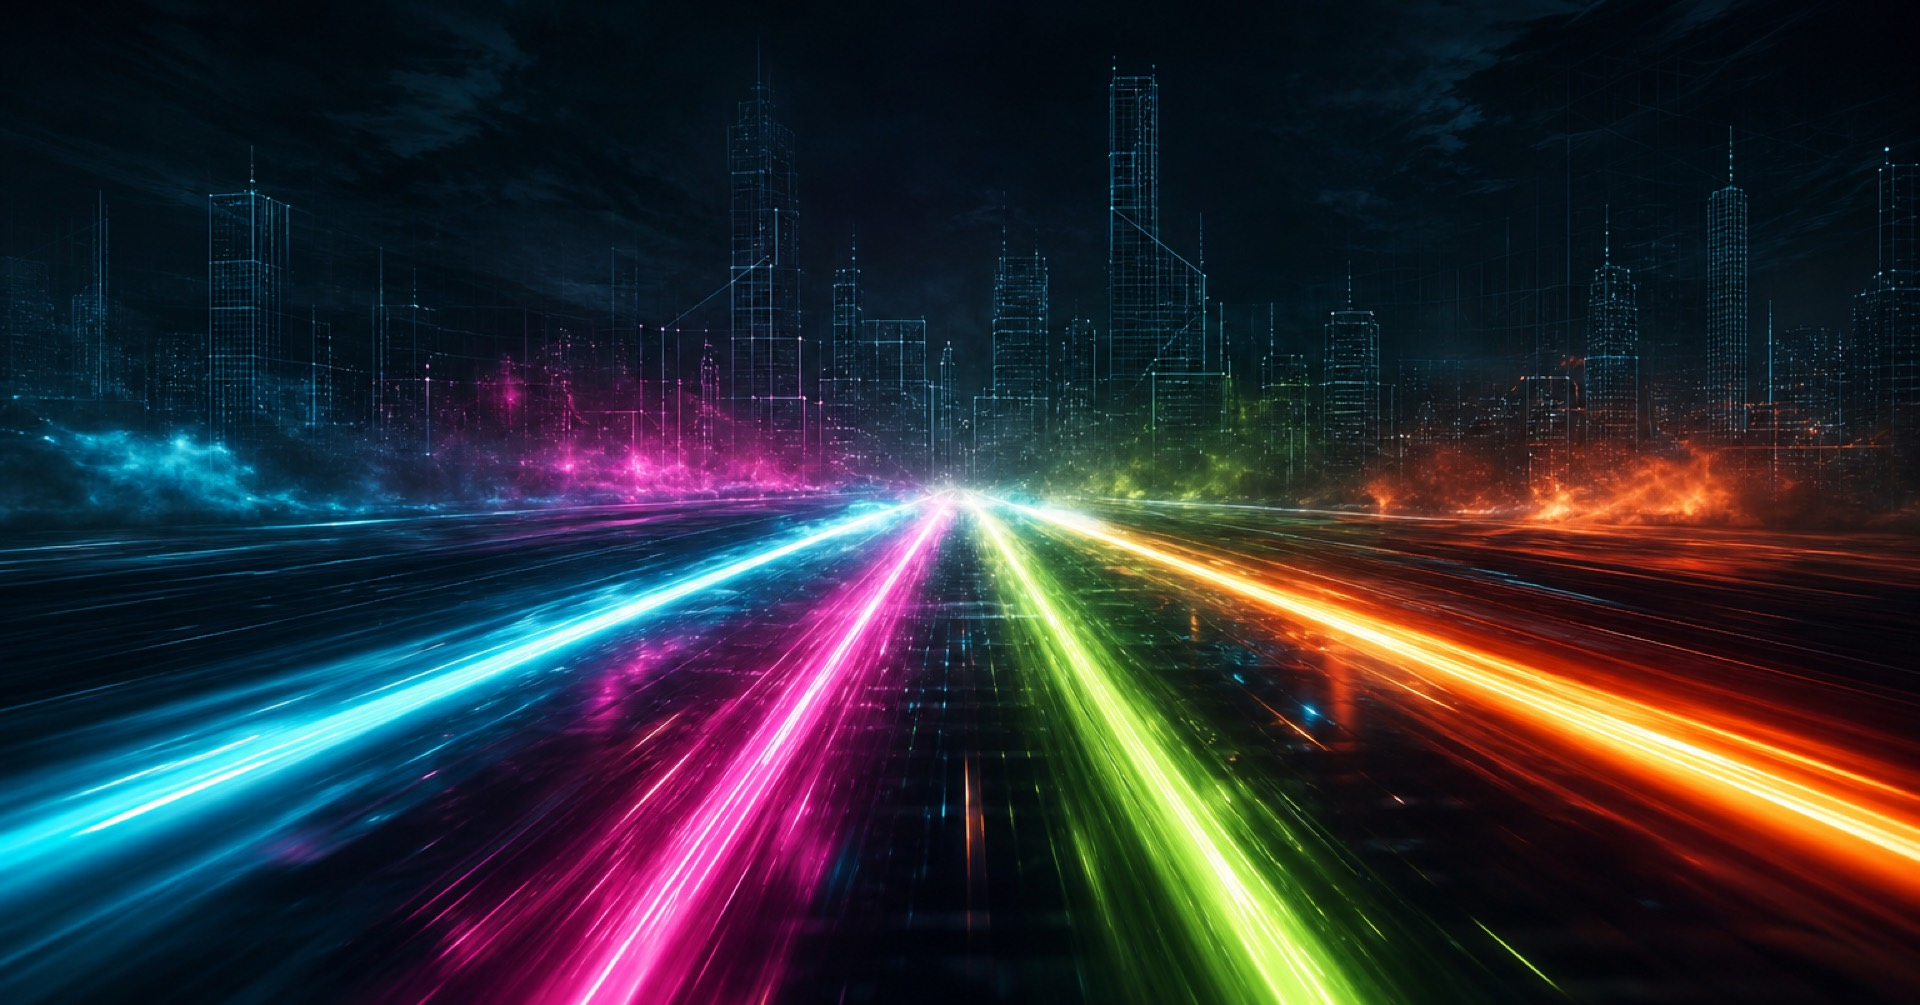
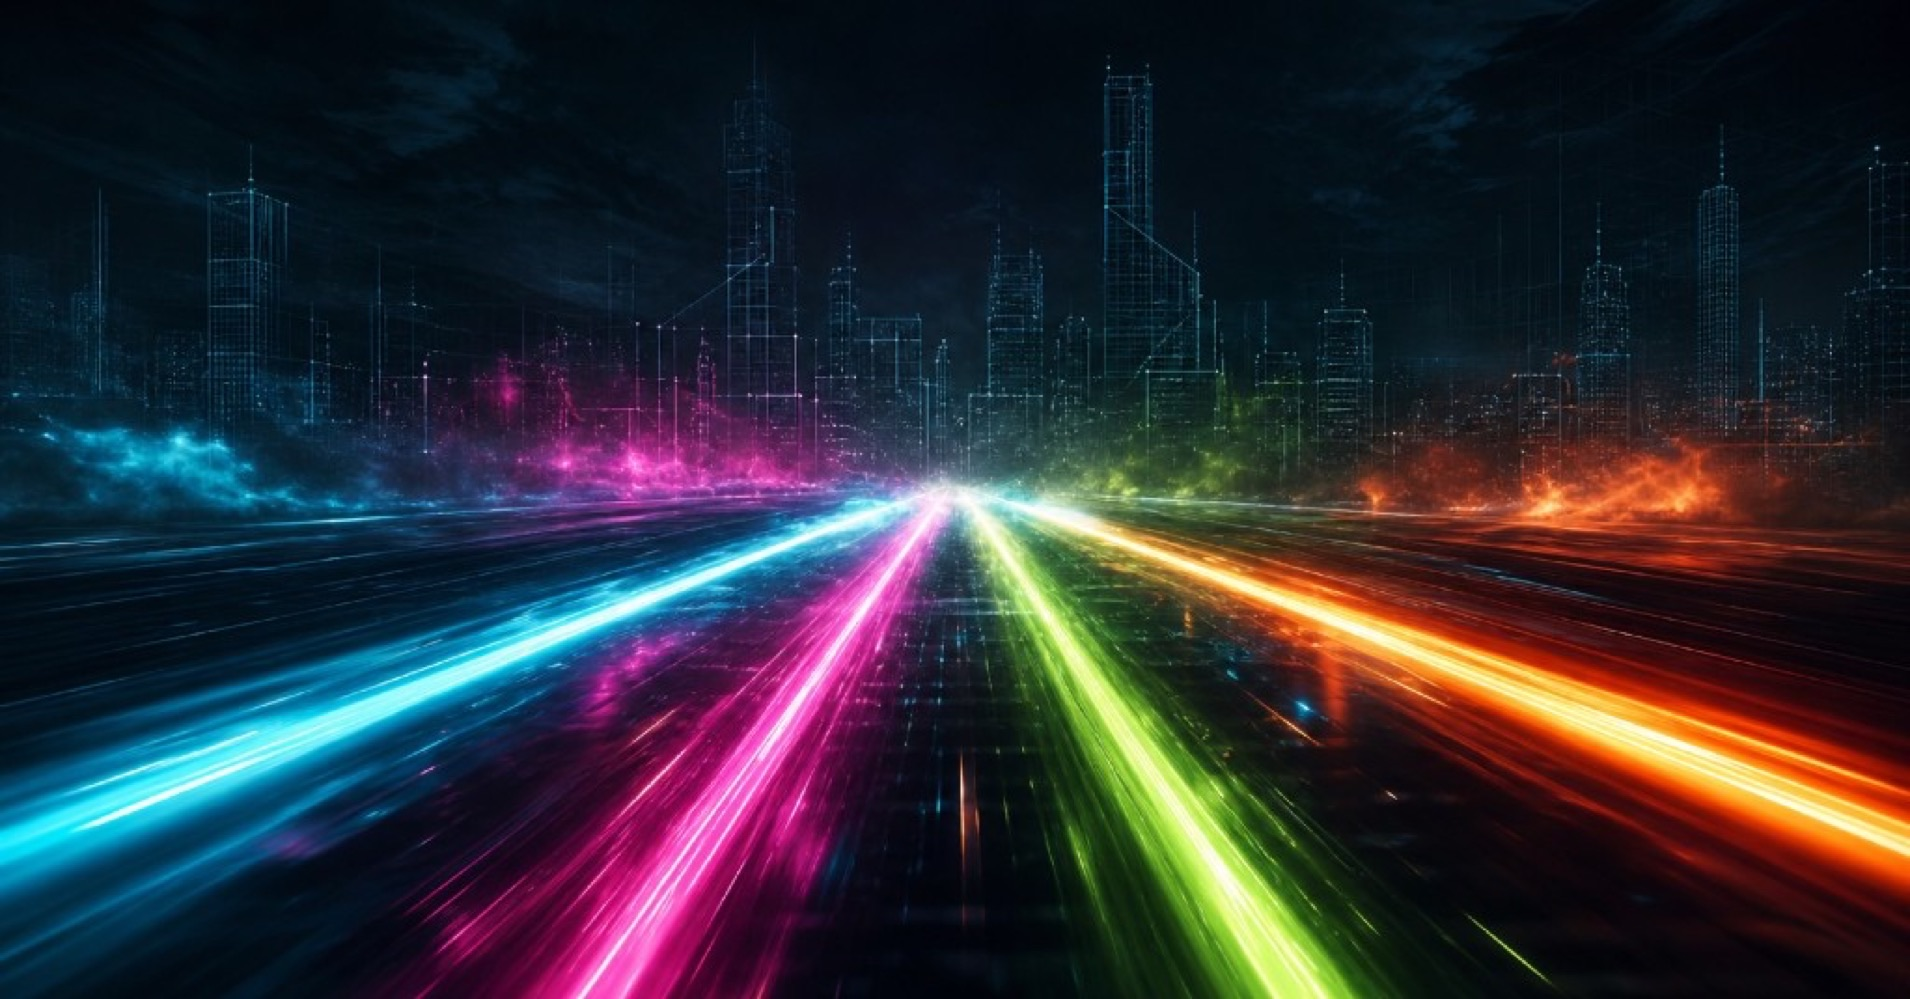
fix(assets): app-thumbnail.jpg max 1910×1000 for Base store
- 1910×999 from new art, under 1MB JPEG
- Align Open Graph image dimensions in layout metadata

diff --git a/web/src/app/layout.tsx b/web/src/app/layout.tsx
@@ -37,7 +37,7 @@ export const metadata: Metadata = {
     title: 'Neon Simon — Base',
     description: productionAppDescription,
     url: siteUrl,
-    images: [{ url: '/app-thumbnail.jpg', width: 1920, height: 1004 }],
+    images: [{ url: '/app-thumbnail.jpg', width: 1910, height: 999 }],
   },
 };
 
